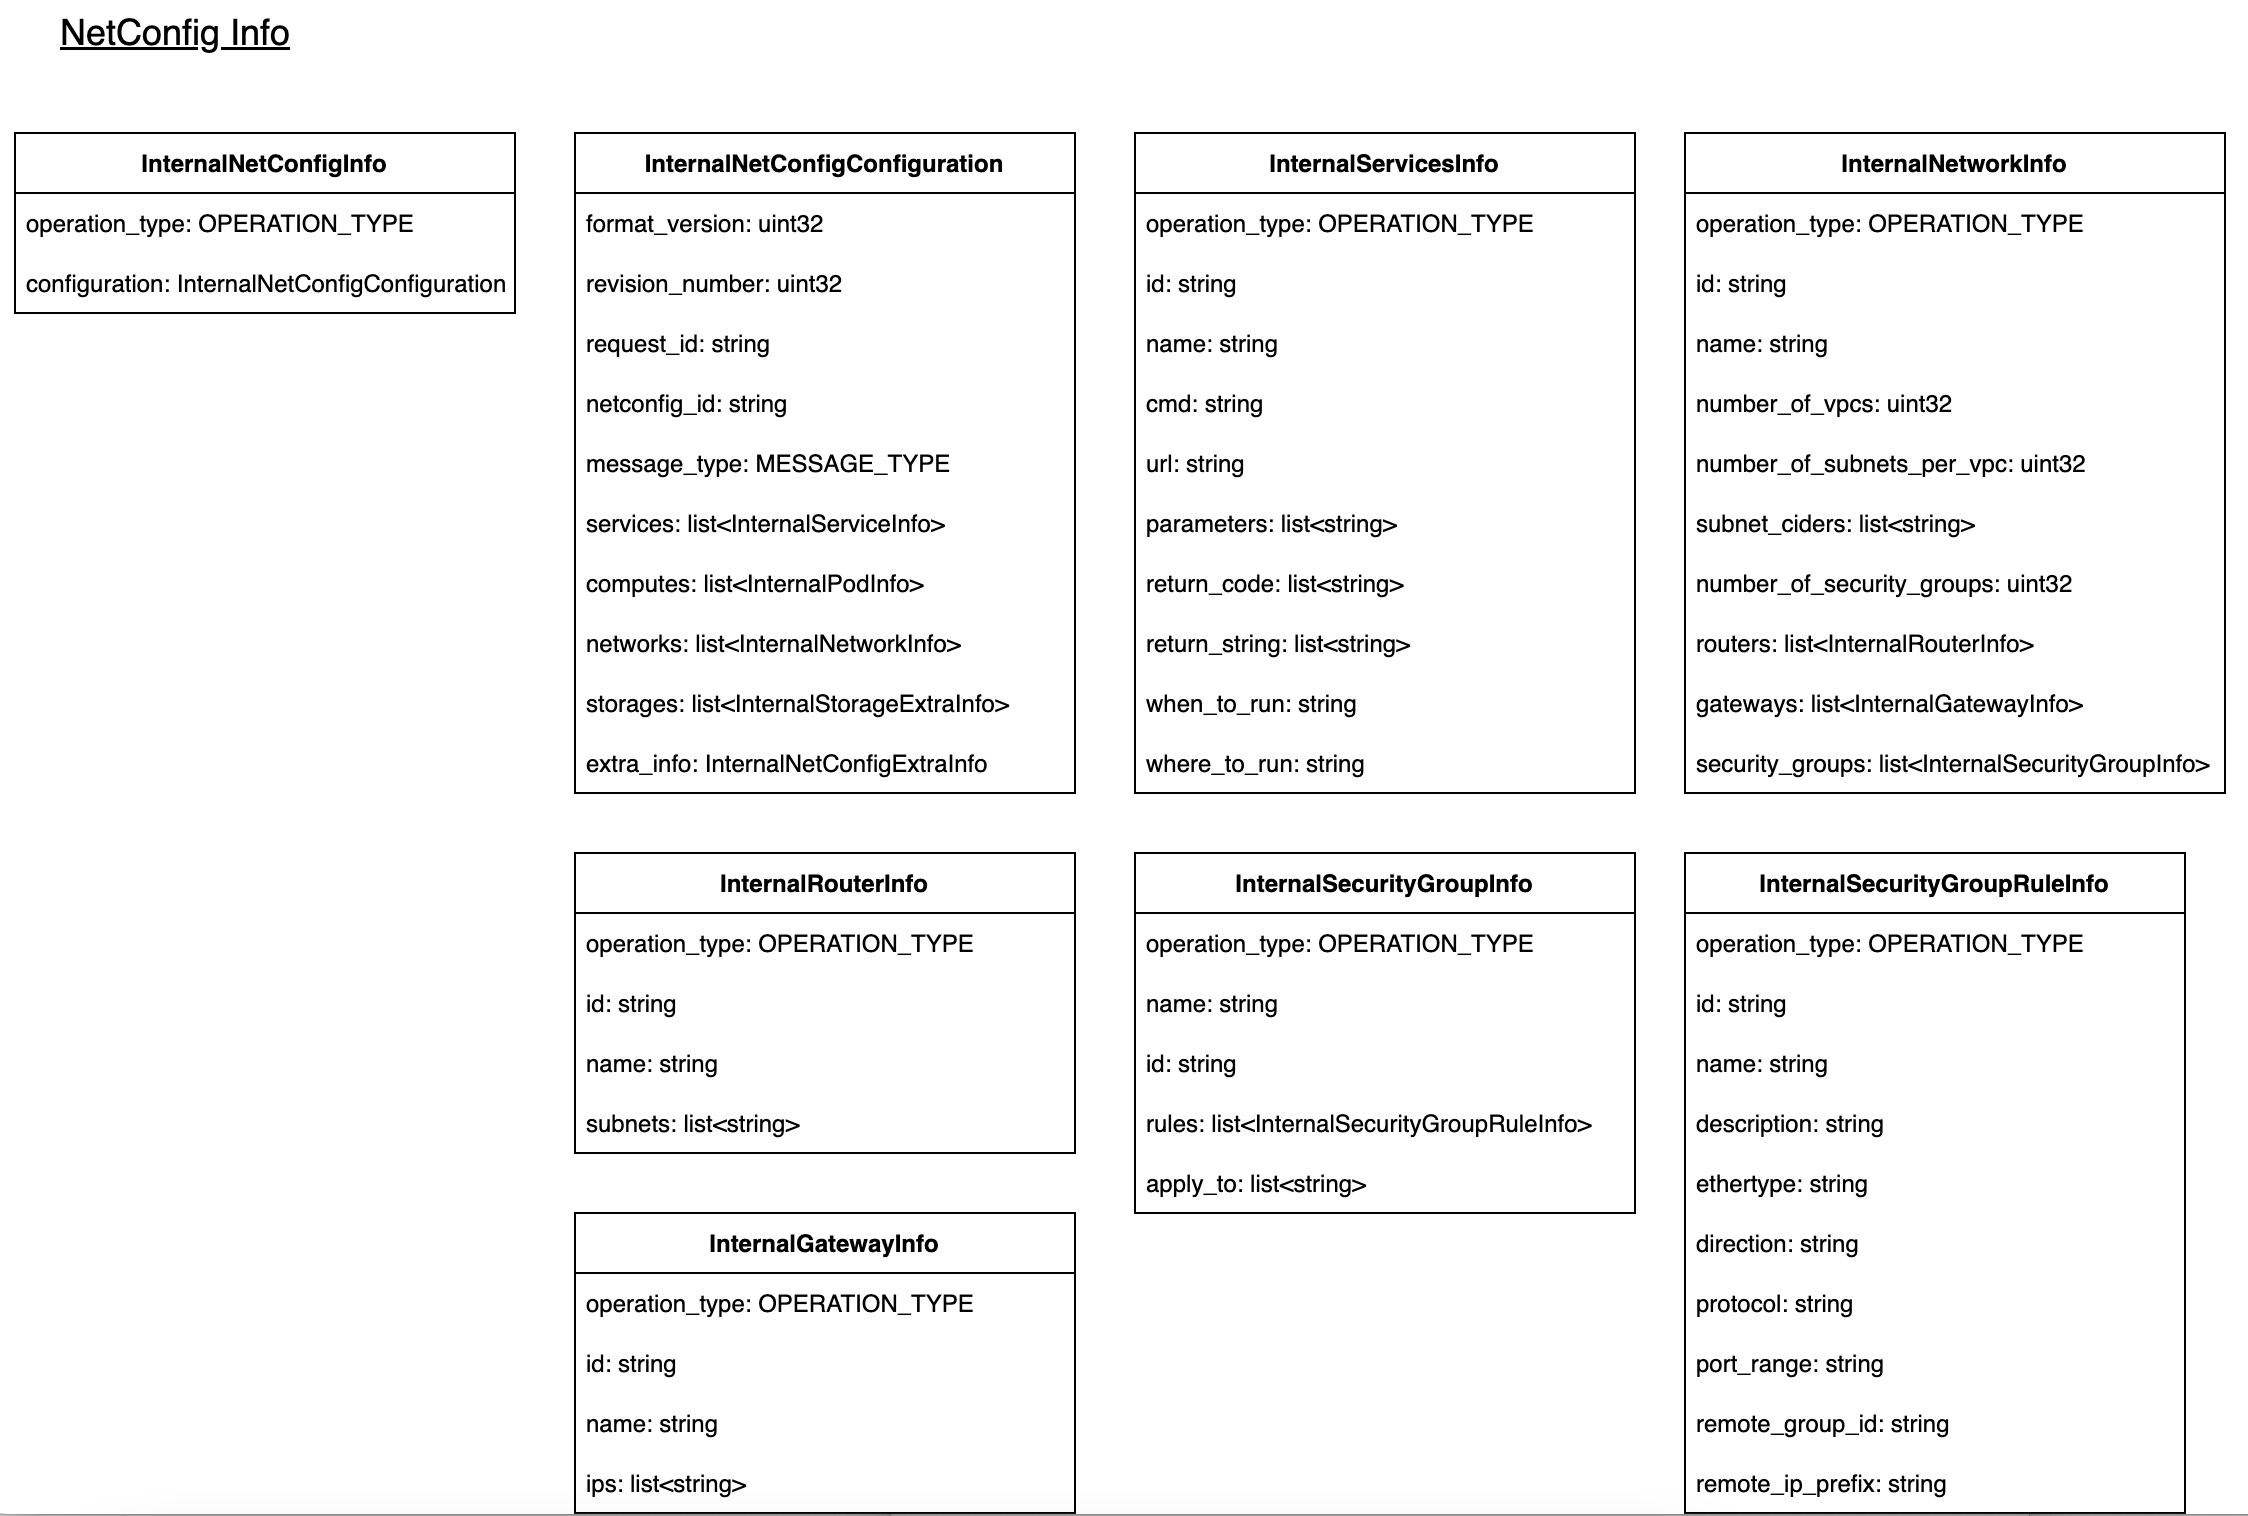
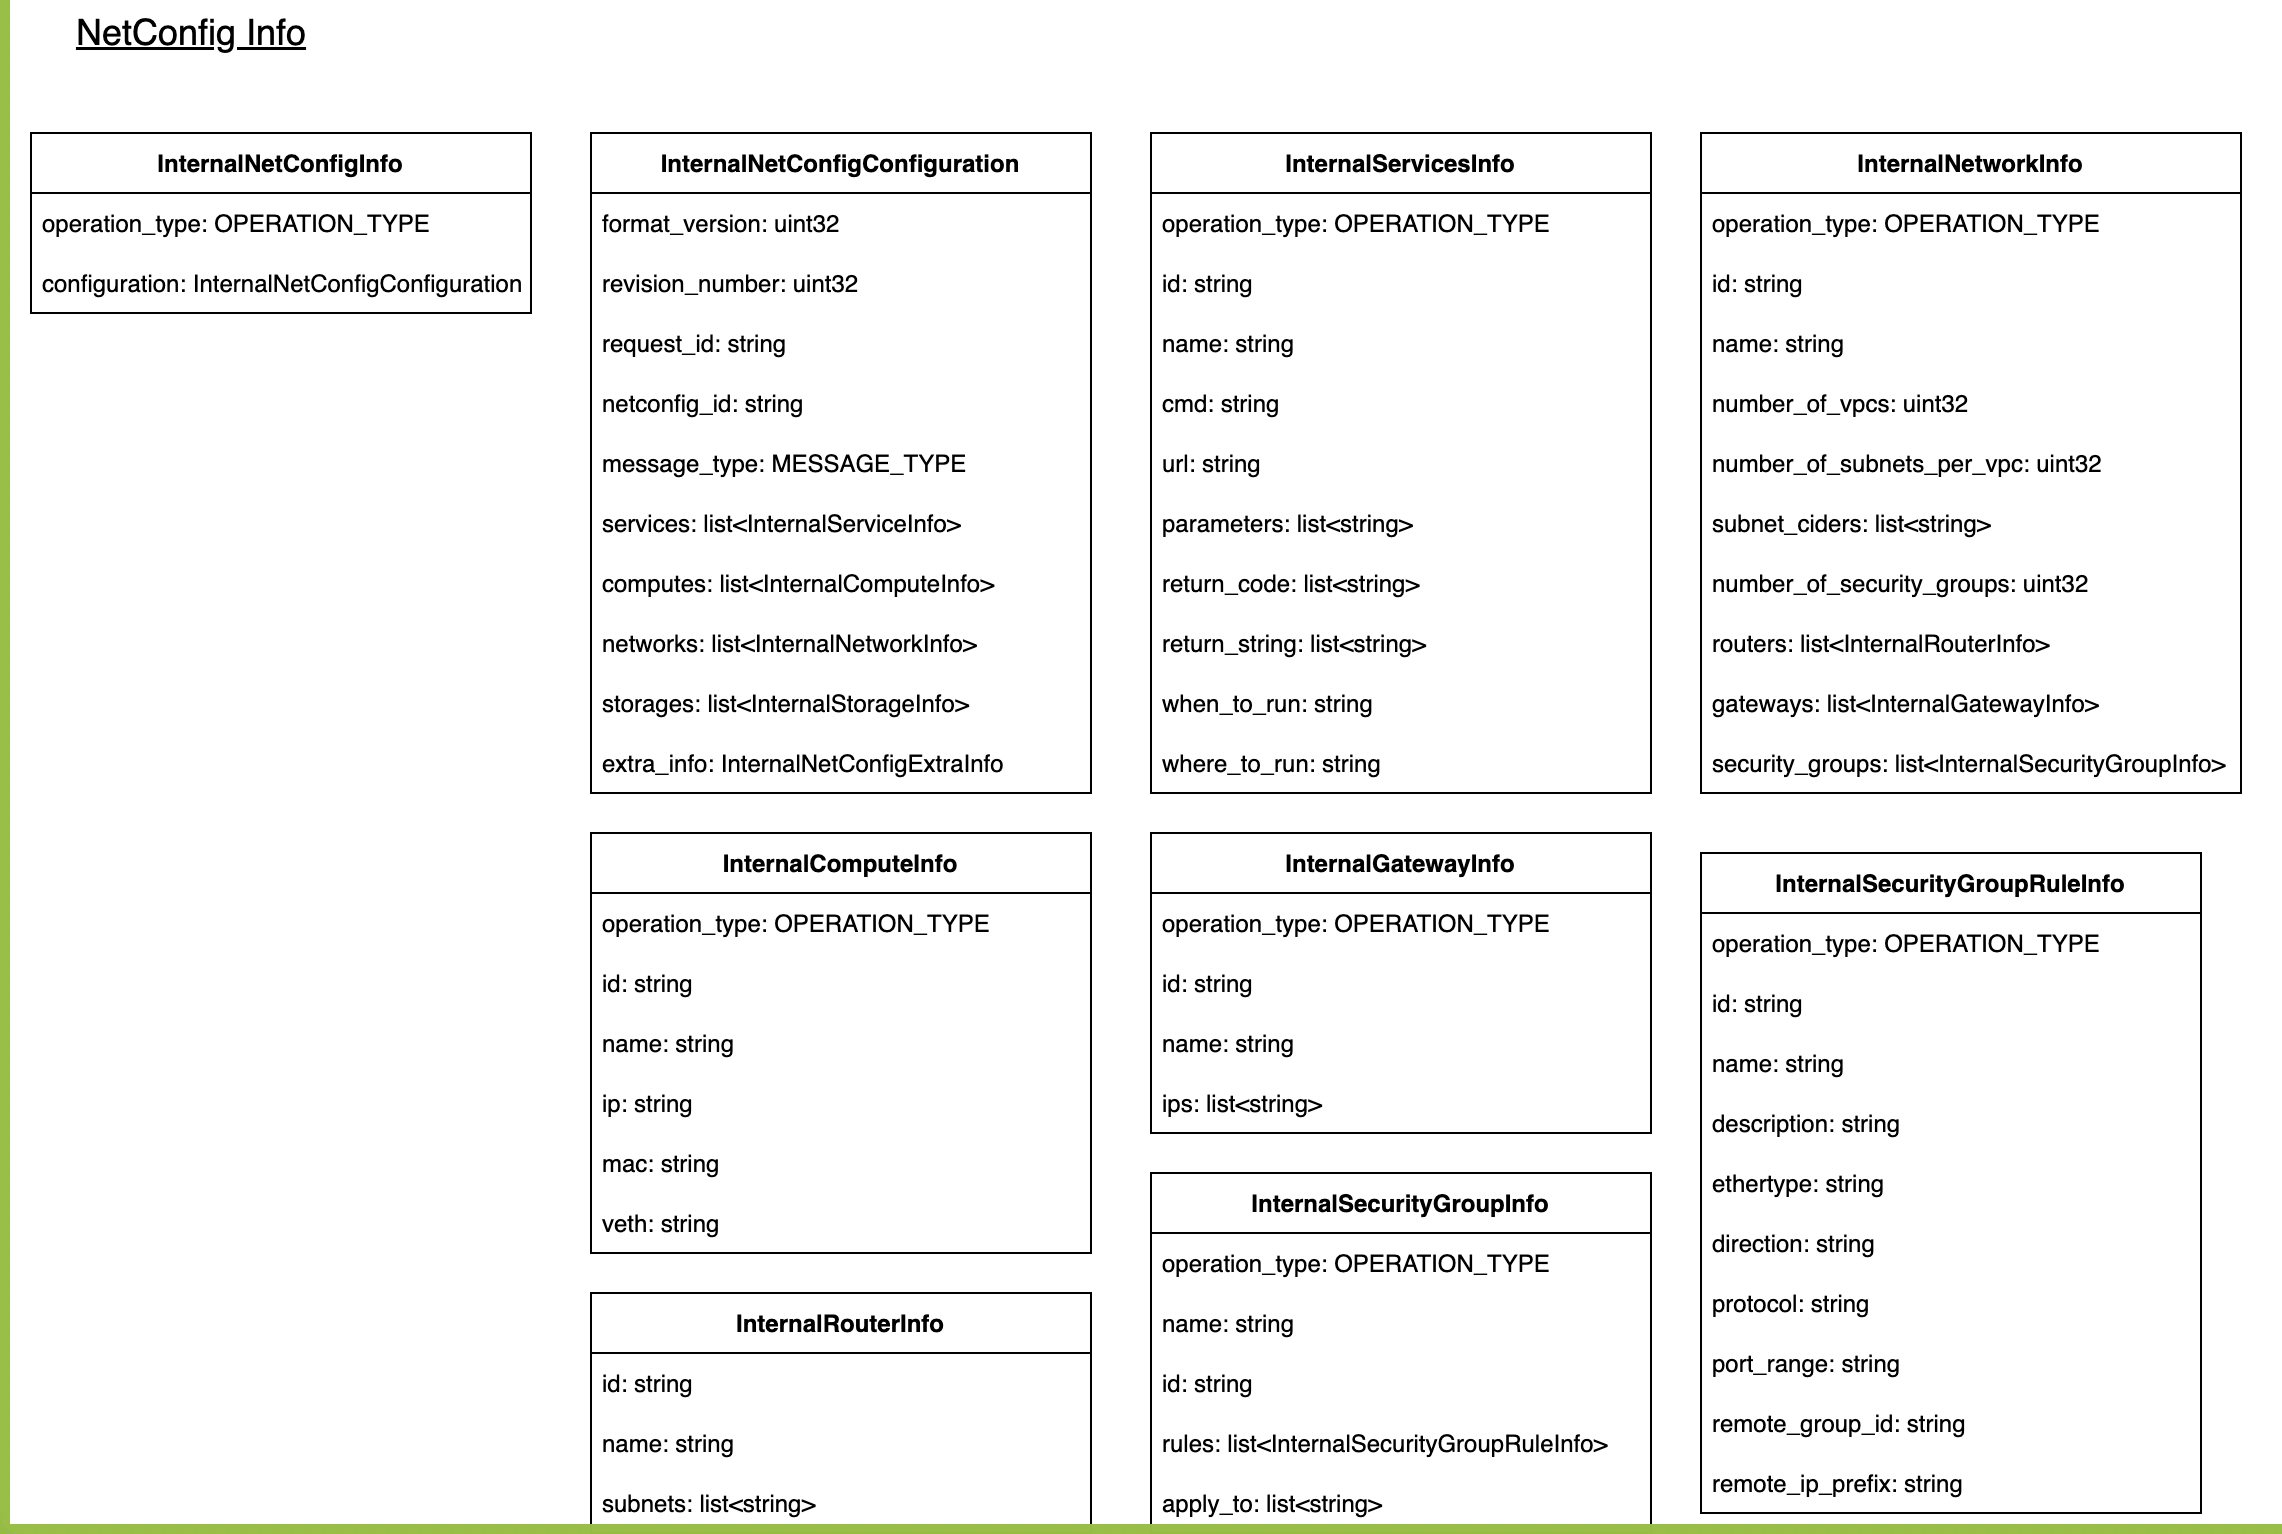
Change protobuf.md network image

Changed region(s): [[0.0, 0.0, 1.0, 1.0], [0.4982, 0.093, 0.9964, 0.527], [0.2491, 0.558, 0.4671, 0.8061]]

diff --git a/docs/protobuf.md b/docs/protobuf.md
@@ -2,4 +2,6 @@
 
 The following figure shows the definition for protobuf message between components:
 
-![protobuf message](images/merak_contracts.drawio-3.svg)  
+![protobuf message 1](images/protobuf-1.png)
+![protobuf message 2](images/protobuf-2.png)
+![protobuf message 3](images/protobuf-3.png)
